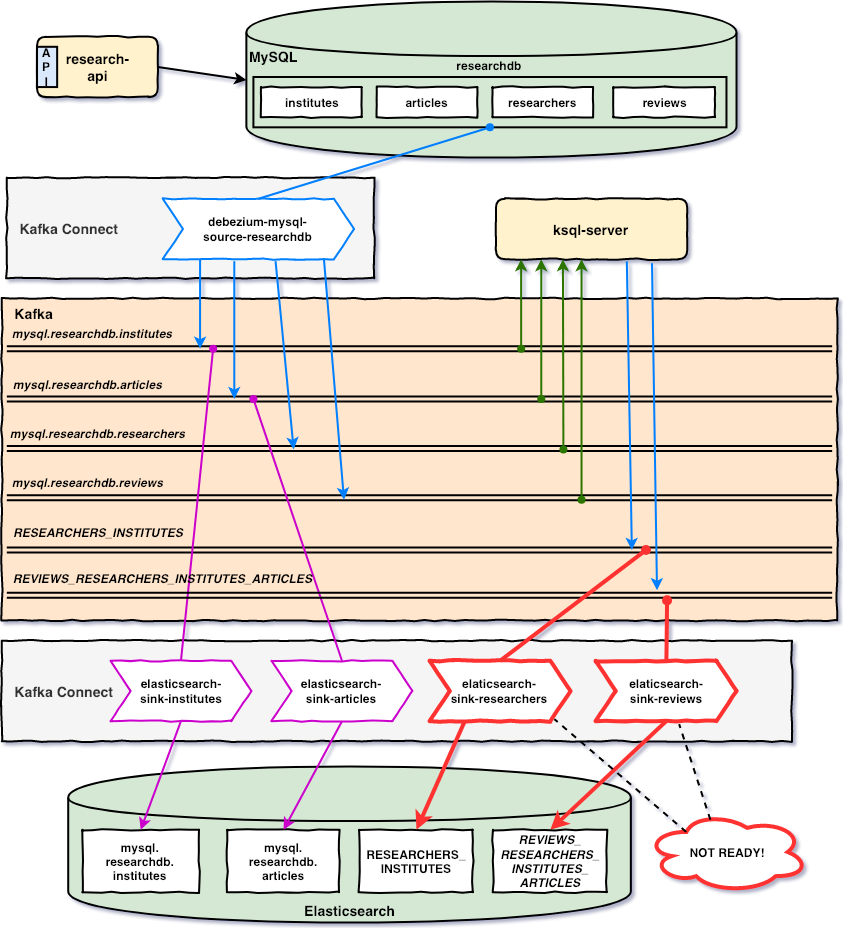
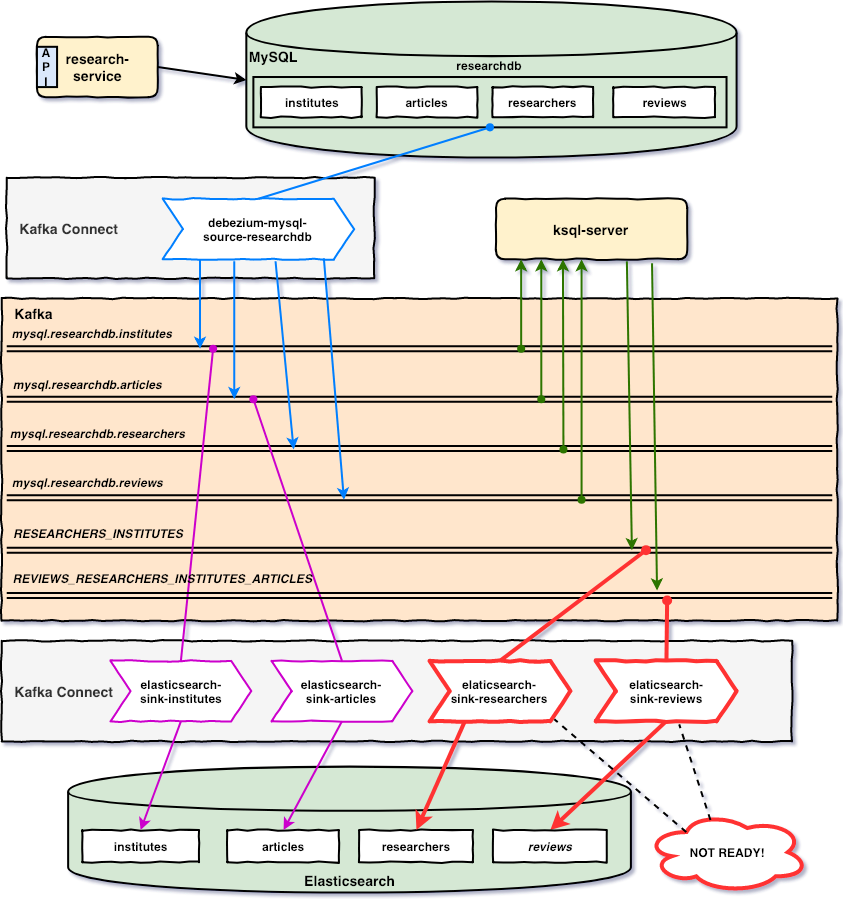
update sink connectors, project diagram and README

Changed region(s): [[0.0, 0.0, 1.0, 0.9967], [0.0308, 0.0311, 0.1851, 0.1246]]

diff --git a/README.md b/README.md
@@ -69,6 +69,15 @@ mvn spring-boot:run
 ```
 The swagger link is http://localhost:9080/swagger-ui.html
 
+> **Note**: if you pick this way, create at least one `review` on `Review-Controller` -> `POST /api/reviews` so that
+> the topic `mysql.researchdb.reviews` is created on Kafka. Otherwise, you can an exception on running `ksql-cli`,
+> explained in the next sections. The exception looks like:
+> ```
+> io.confluent.ksql.parser.exception.ParseFailedException: Exception while processing statement: Avro schema for message
+> values on topic mysql.researchdb.reviews does not exist in the Schema Registry.
+> ```
+
+
 2. Or you can just run a simulation
 ```
 # Using default values (reviews.total=10 and reviews.delay-interval=0)
@@ -125,8 +134,15 @@ curl localhost:9200/mysql.researchdb.articles/_search?pretty
 
 ## TODO
 
-- change index names in Elasticsearch. currently, it's creating the index name as the topic name in Kafka.
-- configure `Elasticsearch Sink Connector` to listen successfully from the topic produced by `ksql`.
+1. Create `RESEARCHERS_INSTITUTES` stream in `ksql.commands` file.
+
+2. Configure `Elasticsearch Sink Connector` to listen successfully from the topics `RESEARCHERS_INSTITUTES` and
+`REVIEWS_RESEARCHERS_INSTITUTES_ARTICLES` produced by `ksql`.
+
+3. replace the deprecated `topic.index.map` configured in `elasticsearch-sink-*` connectors:
+Waiting for those `kafka-connect-elasticsearch` issues to be fixed:
+- `Create indices before writing records #261` https://github.com/confluentinc/kafka-connect-elasticsearch/pull/261
+- `ConnectException: Cannot create mapping when using RegexRouter/TimestampRouter SMT #99` https://github.com/confluentinc/kafka-connect-elasticsearch/issues/99
 
 ## References
 
